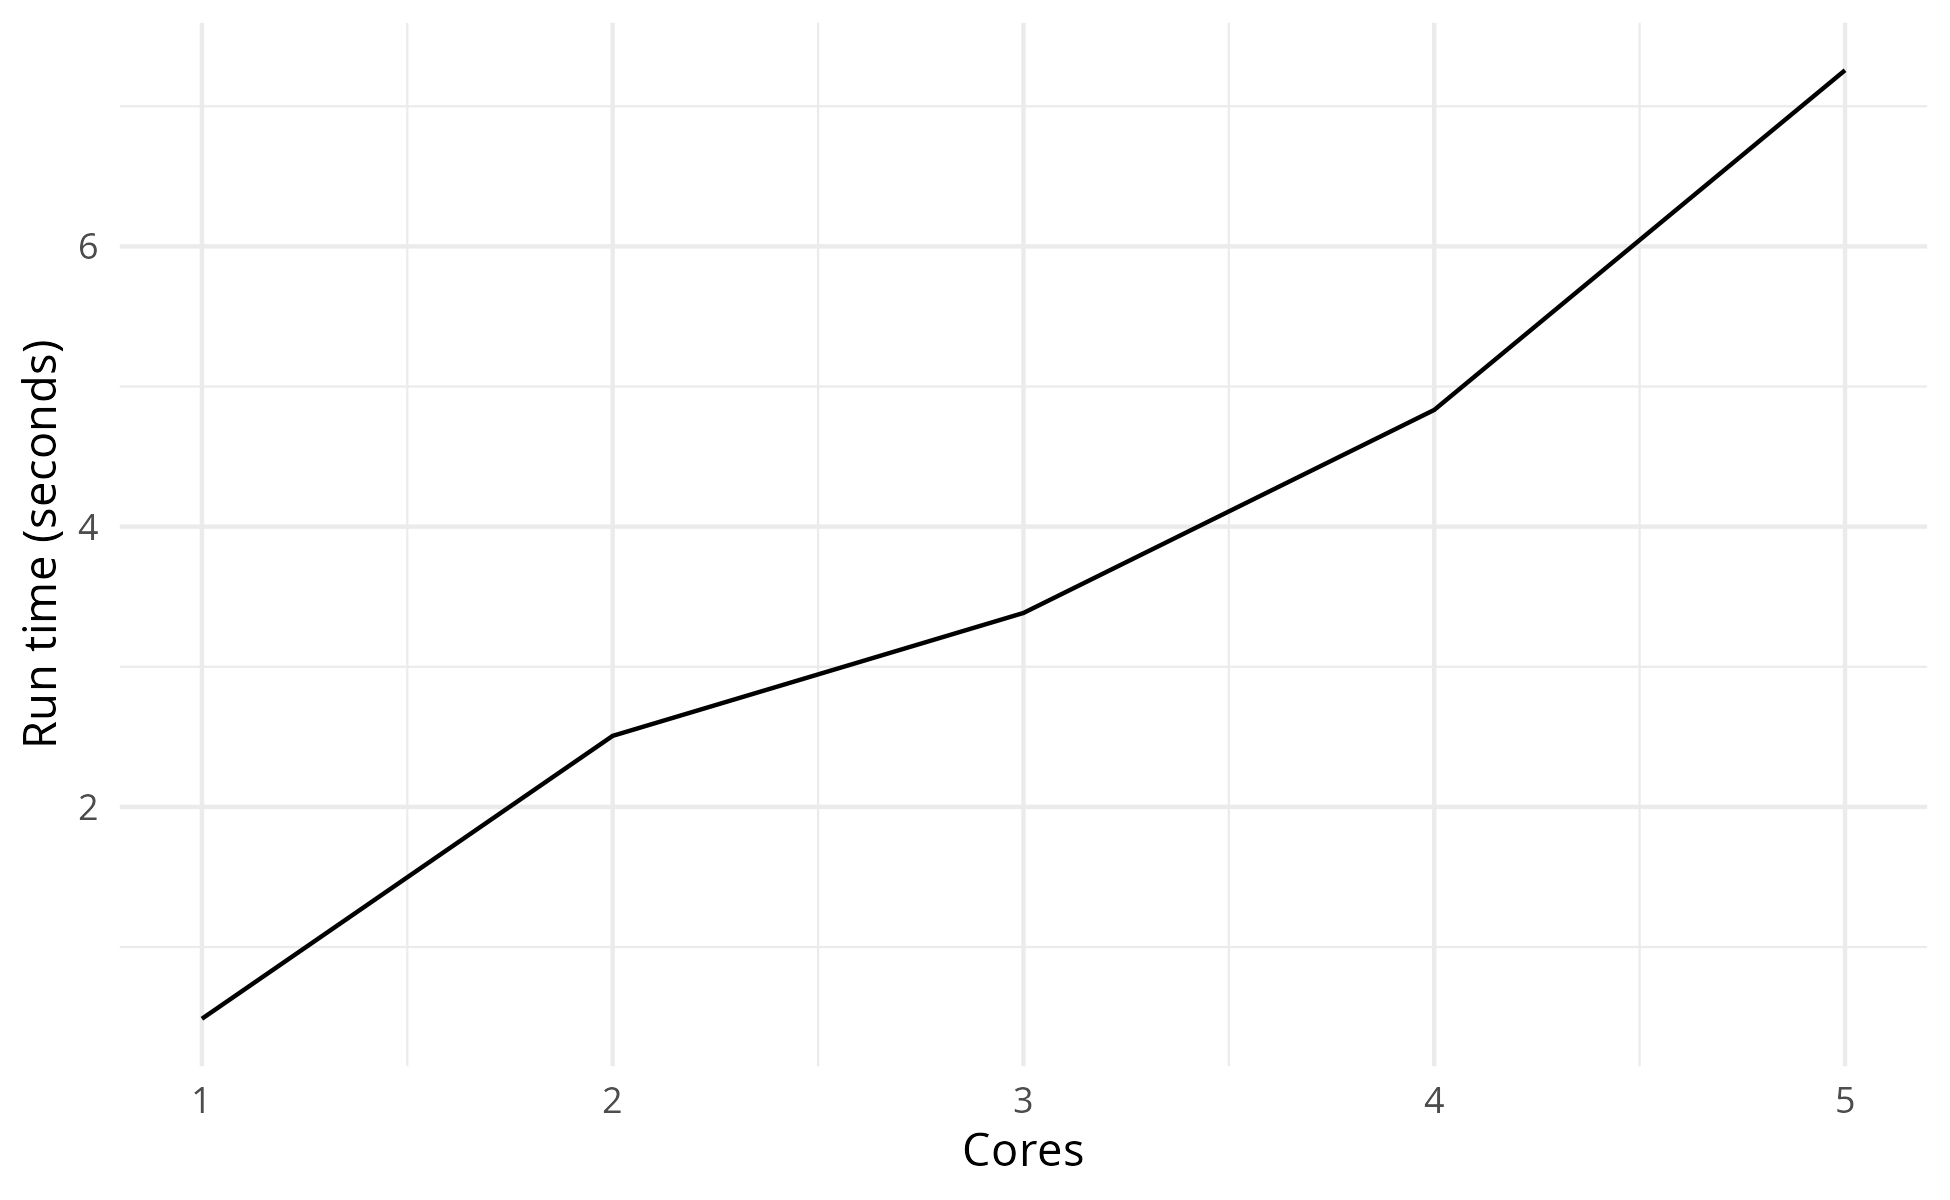
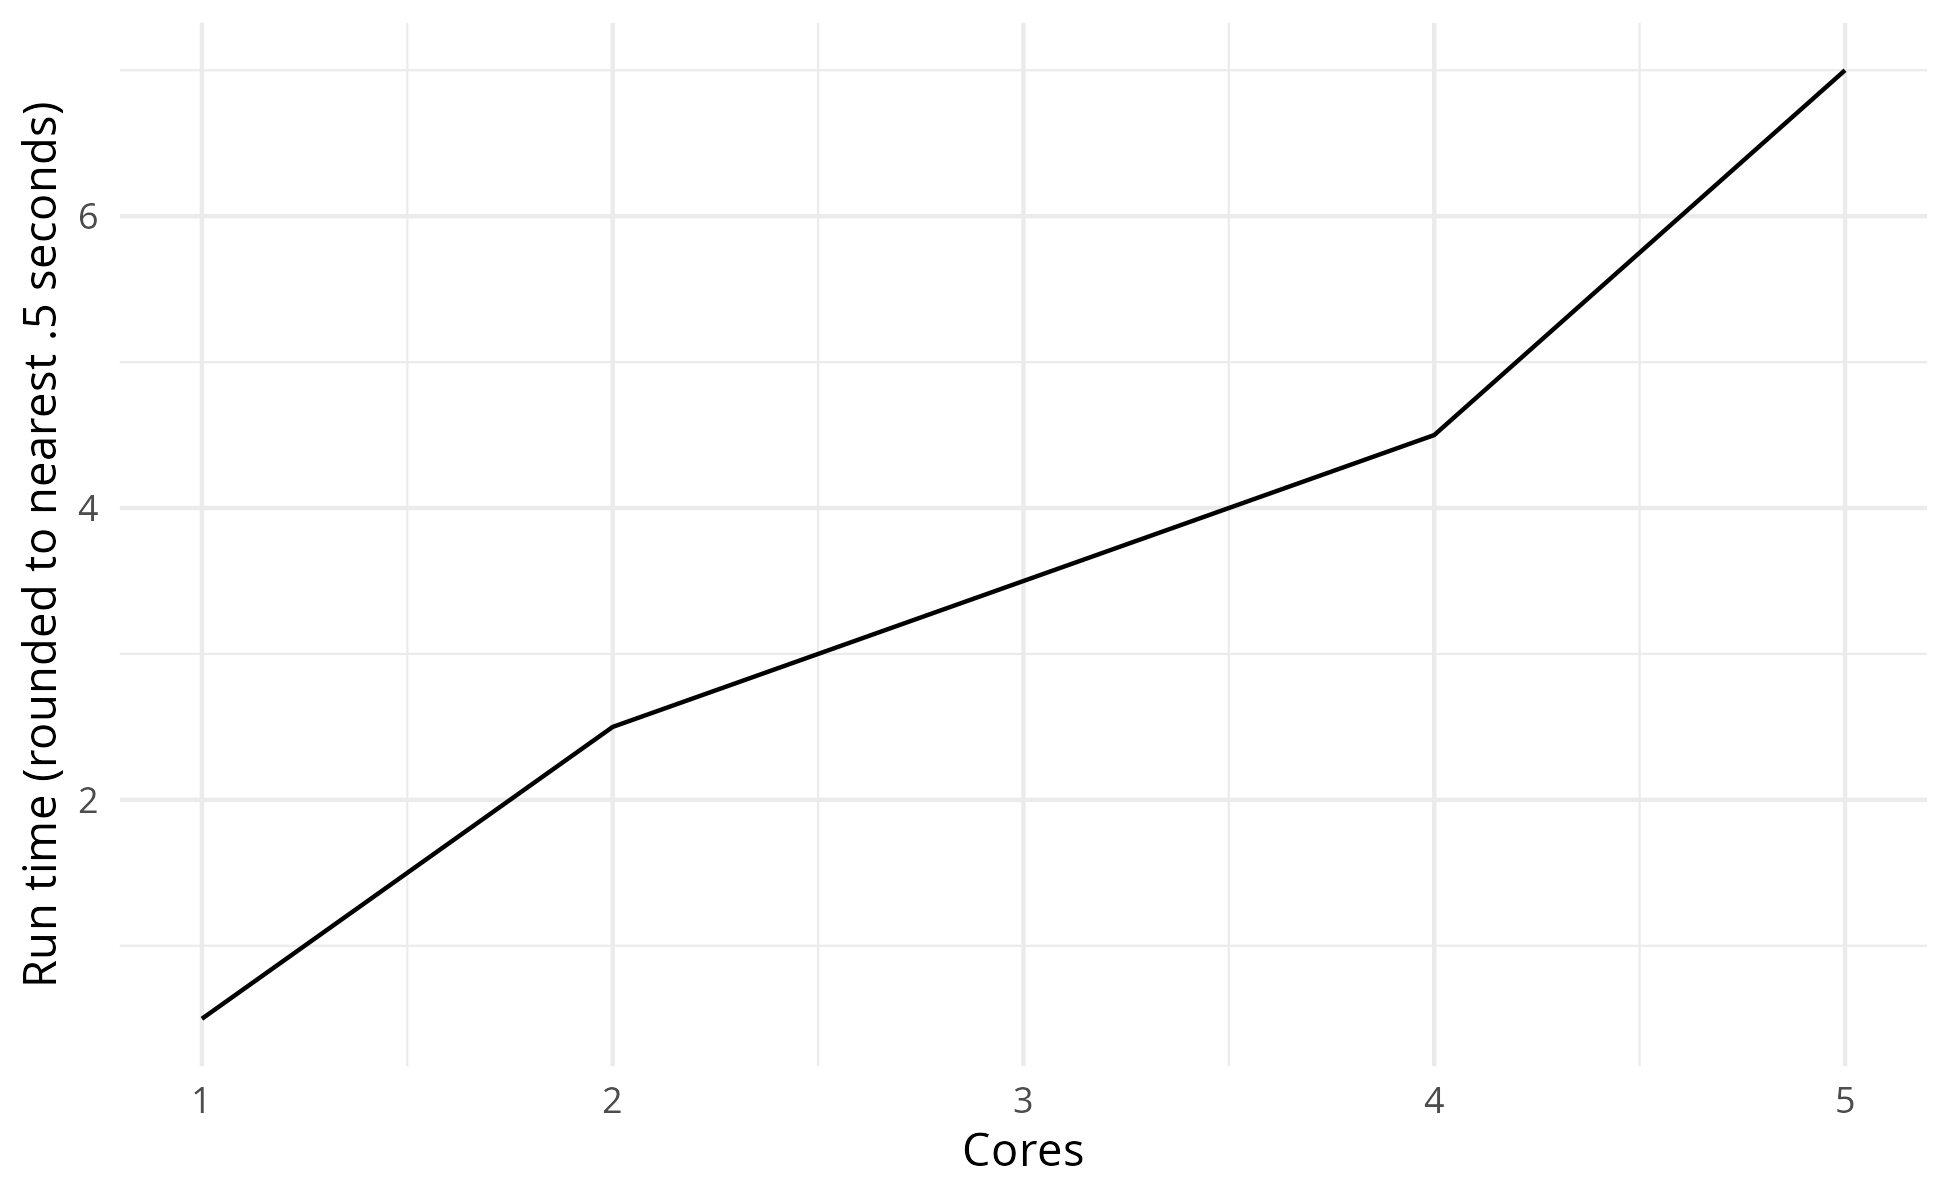
chore(lint/round): build docs, lint files, and round cores output so doesn't change with every run (as it is time taken, which we would expect to vary slightly)

diff --git a/rmarkdown/choosing_parameters.md b/rmarkdown/choosing_parameters.md
@@ -41,12 +41,11 @@ devtools::install()
     ##    checking DESCRIPTION meta-information ...  ✔  checking DESCRIPTION meta-information
     ##   ─  checking for LF line-endings in source and make files and shell scripts
     ## ─  checking for empty or unneeded directories
-    ##      Removed empty directory ‘simulation/tests/testthat/_snaps’
-    ##    Omitted ‘LazyData’ from DESCRIPTION
+    ##      Omitted ‘LazyData’ from DESCRIPTION
     ##   ─  building ‘simulation_0.1.0.tar.gz’
     ##      
     ## Running /opt/R/4.4.1/lib/R/bin/R CMD INSTALL \
-    ##   /tmp/RtmpETGOea/simulation_0.1.0.tar.gz --install-tests 
+    ##   /tmp/RtmpaECLM8/simulation_0.1.0.tar.gz --install-tests 
     ## * installing to library ‘/home/amy/.cache/R/renv/library/rap_template_r_des-cd7d6844/linux-ubuntu-noble/R-4.4/x86_64-pc-linux-gnu’
     ## * installing *source* package ‘simulation’ ...
     ## ** using staged installation
@@ -211,7 +210,7 @@ confidence_interval_method <- function(replications, desired_precision, metric,
     warning("Running ", replications, " replications did not reach ",
             "desired precision (", desired_precision, ").")
   }
-  
+
   # Plot the cumulative mean and confidence interval
   p <- ggplot(cumulative, aes(x = .data[["replications"]],
                               y = .data[["cumulative_mean"]])) +
@@ -231,7 +230,7 @@ confidence_interval_method <- function(replications, desired_precision, metric,
 
   # Save the plot
   ggsave(filename = path, width = 6.5, height = 4L, bg = "white")
-  
+
   return(cumulative)
 }
 ```
@@ -259,8 +258,8 @@ ci_df <- confidence_interval_method(
 ``` r
 # View first ten rows were percentage deviation is below 5
 ci_df %>%
-  filter(perc_deviation < 5) %>%
-  head(10)
+  filter(perc_deviation < 5L) %>%
+  head(10L)
 ```
 
     ##    replications cumulative_mean cumulative_std ci_lower ci_upper perc_deviation
@@ -303,8 +302,8 @@ ci_df <- confidence_interval_method(
 ``` r
 # View first ten rows were percentage deviation is below 5
 ci_df %>%
-  filter(perc_deviation < 5) %>%
-  head(10)
+  filter(perc_deviation < 5L) %>%
+  head(10L)
 ```
 
     ##    replications cumulative_mean cumulative_std ci_lower ci_upper perc_deviation
@@ -351,8 +350,9 @@ run_cores <- function(n_cores, file, model_param = NULL) {
     param_class[["update"]](list(cores = i))
     invisible(trial(param_class))
 
-    # Record time taken
-    cores_time <- as.numeric(Sys.time() - cores_start, units = "secs")
+    # Record time taken, rounded to nearest .5 dp by running round(x*2)/2
+    cores_time <- round(
+      as.numeric(Sys.time() - cores_start, units = "secs")*2)/2
     speed[[i]] <- list(cores = i, run_time = round(cores_time, 3L))
   }
 
@@ -362,7 +362,7 @@ run_cores <- function(n_cores, file, model_param = NULL) {
   # Generate plot
   p <- ggplot(speed_df, aes(x = .data[["cores"]], y = .data[["run_time"]])) +
     geom_line() +
-    labs(x = "Cores", y = "Run time (seconds)") +
+    labs(x = "Cores", y = "Run time (rounded to nearest .5 seconds)") +
     theme_minimal()
 
   # Save plot
@@ -380,7 +380,7 @@ tasks or few iterations, this extra time can be more than the time saved
 by running in parallel.
 
 ``` r
-run_cores(5, "cores1.png")
+run_cores(5L, "cores1.png")
 ```
 
     ## [1] "Running with cores: 1"
@@ -404,7 +404,7 @@ The optimal number of cores will vary depending on your model parameters
 and machine.
 
 ``` r
-run_cores(5, "cores2.png", list(data_collection_period = 100000L))
+run_cores(5L, "cores2.png", list(data_collection_period = 100000L))
 ```
 
     ## [1] "Running with cores: 1"
@@ -428,4 +428,4 @@ seconds <- as.integer(runtime %% 60L)
 print(sprintf("Notebook run time: %dm %ds", minutes, seconds))
 ```
 
-    ## [1] "Notebook run time: 1m 18s"
+    ## [1] "Notebook run time: 1m 19s"

diff --git a/rmarkdown/analysis.md b/rmarkdown/analysis.md
@@ -45,12 +45,11 @@ devtools::install()
     ##    checking DESCRIPTION meta-information ...  ✔  checking DESCRIPTION meta-information
     ##   ─  checking for LF line-endings in source and make files and shell scripts
     ## ─  checking for empty or unneeded directories
-    ##      Removed empty directory ‘simulation/tests/testthat/_snaps’
-    ##    Omitted ‘LazyData’ from DESCRIPTION
+    ##      Omitted ‘LazyData’ from DESCRIPTION
     ##   ─  building ‘simulation_0.1.0.tar.gz’
     ##      
     ## Running /opt/R/4.4.1/lib/R/bin/R CMD INSTALL \
-    ##   /tmp/RtmpRZdNqo/simulation_0.1.0.tar.gz --install-tests 
+    ##   /tmp/Rtmpbqk15J/simulation_0.1.0.tar.gz --install-tests 
     ## * installing to library ‘/home/amy/.cache/R/renv/library/rap_template_r_des-cd7d6844/linux-ubuntu-noble/R-4.4/x86_64-pc-linux-gnu’
     ## * installing *source* package ‘simulation’ ...
     ## ** using staged installation
@@ -423,7 +422,7 @@ print(table_latex)
 ```
 
     ## % latex table generated in R 4.4.1 by xtable 1.8-4 package
-    ## % Mon Jan 27 15:52:00 2025
+    ## % Mon Jan 27 16:03:02 2025
     ## \begin{table}[ht]
     ## \centering
     ## \begin{tabular}{rrllll}
@@ -532,7 +531,7 @@ print(sensitivity_table_latex)
 ```
 
     ## % latex table generated in R 4.4.1 by xtable 1.8-4 package
-    ## % Mon Jan 27 15:52:05 2025
+    ## % Mon Jan 27 16:03:07 2025
     ## \begin{table}[ht]
     ## \centering
     ## \begin{tabular}{rrl}
@@ -574,12 +573,12 @@ tail(result[["arrivals"]])
 ```
 
     ##           name start_time end_time activity_time resource replication
-    ## 160 patient104   51.17679       NA            NA    nurse           0
-    ## 161 patient110   53.57293       NA            NA    nurse           0
-    ## 162 patient148   74.24750       NA            NA    nurse           0
-    ## 163 patient149   74.50965       NA            NA    nurse           0
+    ## 160  patient97   47.84534       NA            NA    nurse           0
+    ## 161 patient155   77.41953       NA            NA    nurse           0
+    ## 162  patient66   35.72669       NA            NA    nurse           0
+    ## 163  patient52   27.21852       NA            NA    nurse           0
     ## 164 patient156   77.59569       NA            NA    nurse           0
-    ## 165 patient158   78.34954       NA            NA    nurse           0
+    ## 165 patient160   78.41585       NA            NA    nurse           0
 
 ## Example run with logs
 
@@ -818,8 +817,8 @@ verbose_run[["arrivals"]]
     ## 22 patient12 46.4500010 86.039329    39.5893285    nurse           0
     ## 23 patient22 77.2295939 87.175152     9.9455579    nurse           0
     ## 24 patient25 86.1477594 91.726053     5.5782935    nurse           0
-    ## 25 patient24 84.4587897        NA            NA    nurse           0
-    ## 26 patient26 99.0189155        NA            NA    nurse           0
+    ## 25 patient26 99.0189155        NA            NA    nurse           0
+    ## 26 patient24 84.4587897        NA            NA    nurse           0
     ## 27 patient23 82.4020925        NA            NA    nurse           0
 
 ## Calculate run time
@@ -835,4 +834,4 @@ seconds <- as.integer(runtime %% 60L)
 print(sprintf("Notebook run time: %dm %ds", minutes, seconds))
 ```
 
-    ## [1] "Notebook run time: 0m 18s"
+    ## [1] "Notebook run time: 0m 17s"

diff --git a/rmarkdown/generate_exp_results.md b/rmarkdown/generate_exp_results.md
@@ -33,13 +33,12 @@ devtools::install()
     ##   ─  preparing ‘simulation’:
     ##    checking DESCRIPTION meta-information ...  ✔  checking DESCRIPTION meta-information
     ##   ─  checking for LF line-endings in source and make files and shell scripts
-    ##   ─  checking for empty or unneeded directories
-    ##    Removed empty directory ‘simulation/tests/testthat/_snaps’
-    ##    Omitted ‘LazyData’ from DESCRIPTION
+    ## ─  checking for empty or unneeded directories
+    ##      Omitted ‘LazyData’ from DESCRIPTION
     ##   ─  building ‘simulation_0.1.0.tar.gz’
     ##      
     ## Running /opt/R/4.4.1/lib/R/bin/R CMD INSTALL \
-    ##   /tmp/Rtmp5ERjCH/simulation_0.1.0.tar.gz --install-tests 
+    ##   /tmp/RtmpVSwa65/simulation_0.1.0.tar.gz --install-tests 
     ## * installing to library ‘/home/amy/.cache/R/renv/library/rap_template_r_des-cd7d6844/linux-ubuntu-noble/R-4.4/x86_64-pc-linux-gnu’
     ## * installing *source* package ‘simulation’ ...
     ## ** using staged installation
